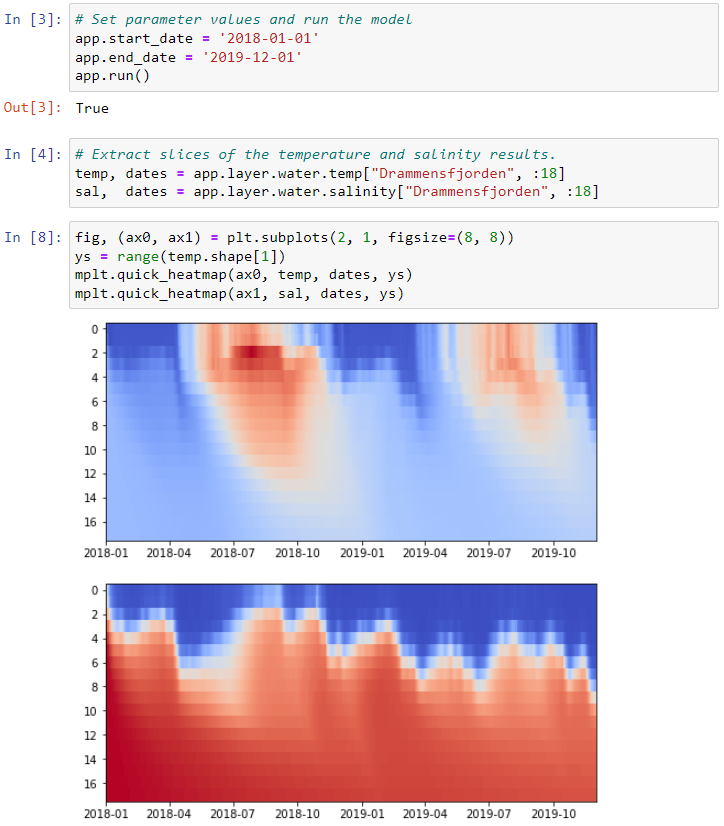
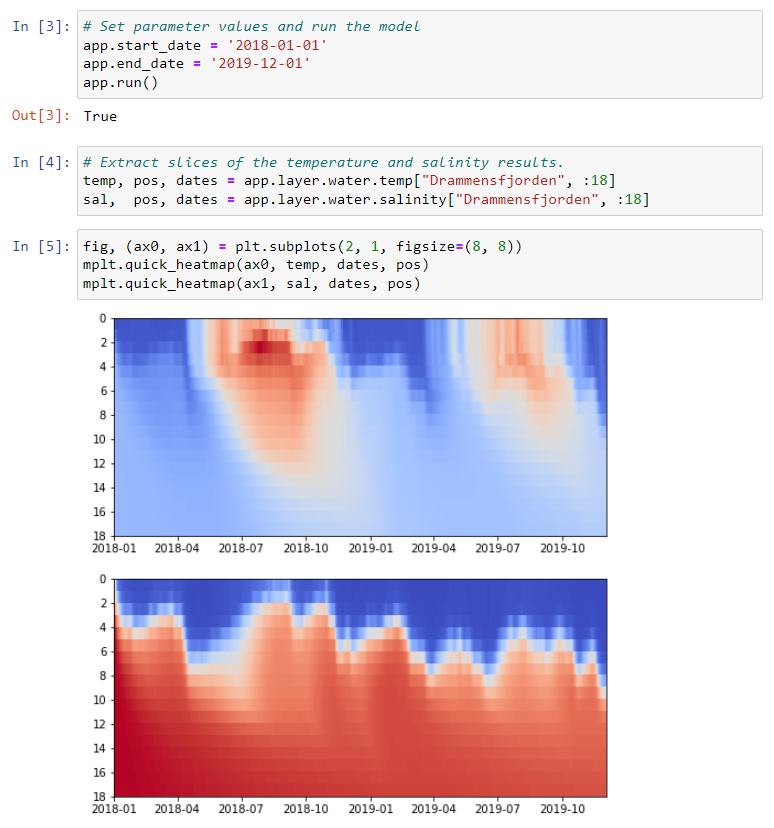
Series slices return the position of the indexes (for better plotting)

diff --git a/mobipy/__init__.py b/mobipy/__init__.py
@@ -130,7 +130,7 @@ dll.mobius_set_series_data.argtypes = [ctypes.c_void_p, Var_Id, ctypes.POINTER(M
 
 dll.mobius_resolve_slice.argtypes = [ctypes.c_void_p, Var_Id, ctypes.POINTER(Mobius_Index_Slice), ctypes.c_int64, ctypes.POINTER(Mobius_Index_Range)]
 
-dll.mobius_get_series_data_slice.argtypes = [ctypes.c_void_p, Var_Id, ctypes.POINTER(Mobius_Index_Range), ctypes.c_int64, ctypes.POINTER(ctypes.c_double), ctypes.c_int64]
+dll.mobius_get_series_data_slice.argtypes = [ctypes.c_void_p, Var_Id, ctypes.POINTER(Mobius_Index_Range), ctypes.c_int64, ctypes.POINTER(ctypes.c_double), ctypes.POINTER(ctypes.c_double), ctypes.c_int64]
 
 dll.mobius_get_series_metadata.argtypes = [ctypes.c_void_p, Var_Id]
 dll.mobius_get_series_metadata.restype = Mobius_Series_Metadata
@@ -473,7 +473,7 @@ class State_Var :
 		step_type = 'S' if step_size.unit == 0 else 'MS'
 		freq='%d%s' % (step_size.magnitude, step_type)
 		
-		dates = pd.date_range(start=start_date, periods=time_steps, freq=freq)
+		dates = pd.date_range(start=start_date, periods=time_steps+1, freq=freq)
 		
 		if _has_slice(indexes) :
 			ilen = _len(indexes)
@@ -482,11 +482,16 @@ class State_Var :
 			_check_for_errors()
 			
 			dim = time_steps
+			idx_dim = 1
 			for rn in ranges :
-				dim *= (rn.last - rn.first)
+				length = (rn.last - rn.first)
+				dim *= length
+				idx_dim *= length
+			idx_dim+=1 # This is because we want the boundary positions of the indexes.
 		
 			series = (ctypes.c_double * dim)()
-			dll.mobius_get_series_data_slice(self.data_ptr, self.var_id, ranges, ilen, series, time_steps)
+			idx_pos = (ctypes.c_double * idx_dim)()
+			dll.mobius_get_series_data_slice(self.data_ptr, self.var_id, ranges, ilen, idx_pos, series, time_steps)
 			_check_for_errors()
 			
 			data = np.array(series, copy=False)
@@ -495,7 +500,7 @@ class State_Var :
 				dm = int(rn.last - rn.first)
 				if dm > 1 :
 					dims += (dm,)
-			return np.reshape(data, dims), dates
+			return np.reshape(data, dims), np.array(idx_pos, copy=False), dates
 			
 		else :
 		

diff --git a/src/c_abi.cpp b/src/c_abi.cpp
@@ -297,6 +297,7 @@ is_none_dim(s64 slice_dim) {
 DLLEXPORT void
 mobius_resolve_slice(Model_Data *data, Var_Id var_id, Mobius_Index_Slice *indexes_in, s64 indexes_count, Mobius_Index_Range *ranges_out) {
 	
+	try {
 	// TODO: Maybe generalize so that it can also be used for parameters for instance.
 	auto app = data->app;
 	Indexes indexes;
@@ -343,7 +344,7 @@ mobius_resolve_slice(Model_Data *data, Var_Id var_id, Mobius_Index_Slice *indexe
 			first = slice.first;
 			last  = first + 1;
 		}
-		if(!was_string) {   // Hmm, this is maybe only necessary if !is_slice, because otherwise we should not allow sub-slicing it (?)
+		if(!was_string && !slice.is_slice) {
 			Token idx_name;
 			idx_name.type = Token_Type::integer;
 			idx_name.val_int = first;
@@ -357,11 +358,14 @@ mobius_resolve_slice(Model_Data *data, Var_Id var_id, Mobius_Index_Slice *indexe
 		
 		ranges_out[idxidx] = Mobius_Index_Range { first, last };
 	}
+	
+	} catch(int) {}
 }
 
 DLLEXPORT void
-mobius_get_series_data_slice(Model_Data *data, Var_Id var_id, Mobius_Index_Range *indexes_in, s64 indexes_count, double *series_out, s64 time_steps) {
+mobius_get_series_data_slice(Model_Data *data, Var_Id var_id, Mobius_Index_Range *indexes_in, s64 indexes_count, double *pos_out, double *series_out, s64 time_steps) {
 	
+	try {
 	auto app = data->app;
 	
 	if(var_id.type == Var_Id::Type::temp_var)
@@ -398,6 +402,17 @@ mobius_get_series_data_slice(Model_Data *data, Var_Id var_id, Mobius_Index_Range
 		for(s64 step = 0; step < time_steps; ++step)
 			series_out[step*dim + idx] = *storage.get_value(offset, step);
 	}
+	
+	auto set = index_sets[dim_pos];
+	Index_T index = Index_T { set, (s32)first-1 };
+	pos_out[0] = app->index_data.get_position(index);
+	
+	int i = 1;
+	for(int idx = first; idx < last; ++idx) {
+		index.index = idx;
+		pos_out[i++] = app->index_data.get_position(index);
+	}
+	} catch(int) {}
 }
 
 // TODO: We could just have a get_decl_type eventually

diff --git a/src/model_declaration.cpp b/src/model_declaration.cpp
@@ -1913,15 +1913,15 @@ Decl_Scope::check_for_unreferenced_things(Catalog *catalog) {
 		auto &reg = pair.second;
 		
 		if(reg.is_load_arg && !reg.was_referenced) {
-			log_print("Warning: In ");
-			reg.source_loc.print_log_header();
-			log_print("The module argument '", reg.identifier, "' was never referenced.\n");
+			log_print(Log_Mode::dev, "Warning: In ");
+			reg.source_loc.print_log_header(Log_Mode::dev);
+			log_print(Log_Mode::dev, "The module argument '", reg.identifier, "' was never referenced.\n");
 		}
 		
 		if (!reg.is_load_arg && !reg.external && !reg.was_referenced && reg.id.reg_type == Reg_Type::parameter) {
-			log_print("Warning: In ");
-			reg.source_loc.print_log_header();
-			log_print("The parameter '", reg.identifier, "' was never referenced.\n");
+			log_print(Log_Mode::dev, "Warning: In ");
+			reg.source_loc.print_log_header(Log_Mode::dev);
+			log_print(Log_Mode::dev, "The parameter '", reg.identifier, "' was never referenced.\n");
 		}
 		
 		if(reg.external) {

diff --git a/src/c_abi.h b/src/c_abi.h
@@ -117,7 +117,7 @@ DLLEXPORT void
 mobius_resolve_slice(Model_Data *data, Var_Id var_id, Mobius_Index_Slice *indexes, s64 indexes_count, Mobius_Index_Range *ranges_out);
 
 DLLEXPORT void
-mobius_get_series_data_slice(Model_Data *data, Var_Id var_id, Mobius_Index_Range *indexes, s64 indexes_count, double *data_out, s64 time_steps);
+mobius_get_series_data_slice(Model_Data *data, Var_Id var_id, Mobius_Index_Range *indexes, s64 indexes_count, double *position_out, double *data_out, s64 time_steps);
 
 DLLEXPORT Mobius_Series_Metadata
 mobius_get_series_metadata(Model_Data *data, Var_Id var_id);

diff --git a/src/index_data.cpp b/src/index_data.cpp
@@ -916,11 +916,13 @@ Index_Data::get_position(Index_T index) {
 	auto &data = index_data[index.index_set.id];
 	
 	if(data.has_index_position_map) {
-		if(index.index < 0 || index.index >= data.pos_vals.size())
+		if(index.index < 0)
+			return 0.0;
+		if(index.index >= data.pos_vals.size())
 			fatal_error(Mobius_Error::internal, "Index out of bounds when looking up position.");
 		return data.pos_vals[index.index];
 	}
-	return (double)index.index;
+	return (double)(index.index + 1);
 }
 
 bool

diff --git a/docs/mobipydocs/mobipy.md b/docs/mobipydocs/mobipy.md
@@ -111,17 +111,19 @@ When you read the values of a series, you must access it using its indexes. If t
 
 You can also construct a `pandas.DataFrame` from several such series, which is one of the most common ways to organize scientific data in python.
 
-If a series indexes over several indexes you can also read out a slice. We only support slicing one index set at a time for now, and no custom strides. When slicing, instead of a ´pd.Series´ you get a pair `(values, dates)`, where `values` is a `numpy.ndarray` with dimensions `(time_steps, n_indexes)`. Here `n_indexes` is the amount of indexes in the slice range. Example
+If a series indexes over several indexes you can also read out a slice. We only support slicing one index set at a time for now, and no custom strides. When slicing, instead of a ´pd.Series´ you get a tuple `(values, position, dates)`, where `values` is a `numpy.ndarray` with dimensions `(time_steps, n_indexes)`. Here `n_indexes` is the amount of indexes in the slice range. Example
 
 ```python
-temps, dates = app.layer.water.temp["Drammensfjorden", 4:10]
+temps, pos, dates = app.layer.water.temp["Drammensfjorden", 4:10]
 ```
 
 In this example, the temperatures in the "Drammensfjorden" basin in [NIVAFjord](../existingmodels/nivafjord.html) is extracted between layers 4 and 10.
 
-For input series you always get the expanded data that is sampled to the applications sampling frequency, even if it was provided sparsely in the data file.
+The `pos` vector is of size `n_indexes+1` and contains the boundaries of the indexes in the slice. The `dates` vector is of size `time_steps+1` (the last value being the first time step after the model run). These contain the boundaries because this is more convenient for plotting heatmaps. If you only want positions of each data point, discard the last element in `pos` and `dates`.
 
-You can also set the values of an input series. The value you provide must be a `pandas.Series` that is indexed by a DateTimeIndex. This could be sparse. In that case, only the given dates are overwritten.
+For input series you always get the expanded data that is sampled to the application's sampling frequency, even if it was provided sparsely in the data file.
+
+You can also set the values of an input series. The value you provide must be a `pandas.Series` that is indexed by a `DateTimeIndex`. This could be sparse. In that case, only the given dates are overwritten.
 
 For now we don't support setting slices.
 
